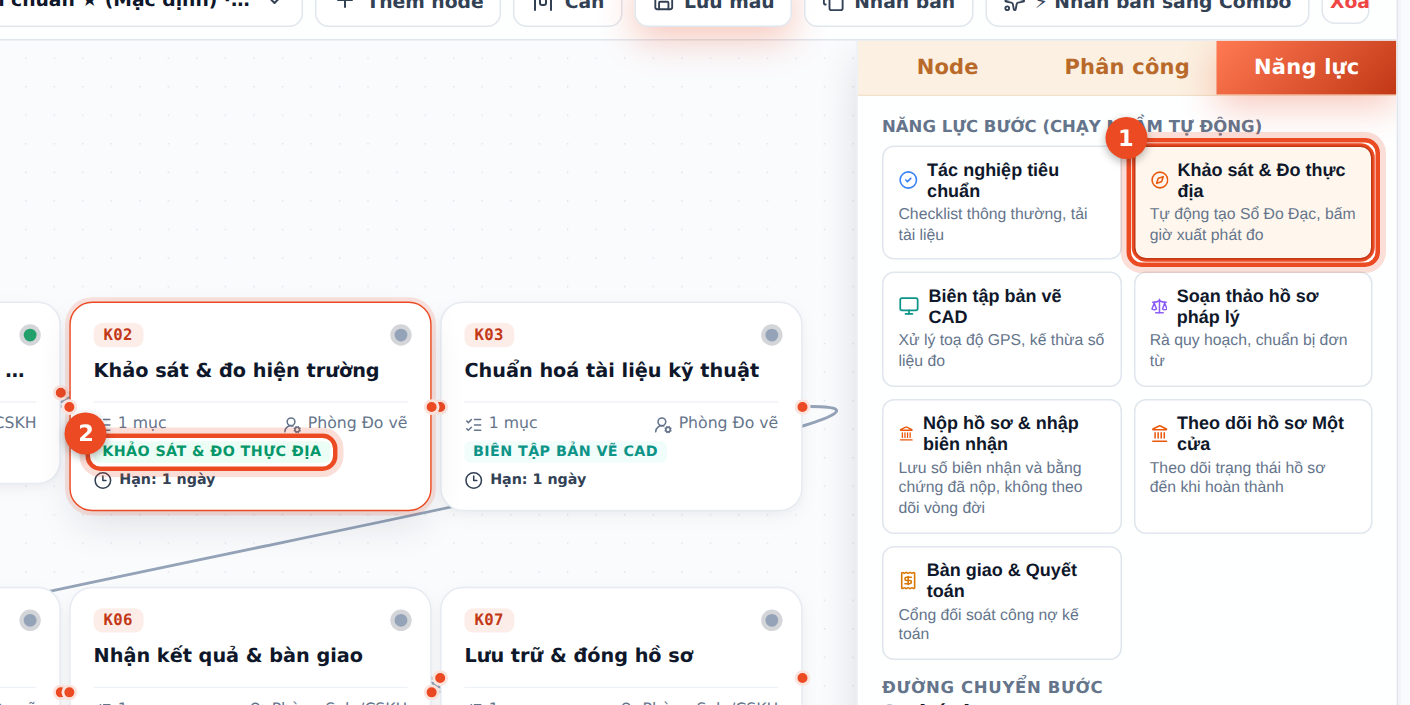
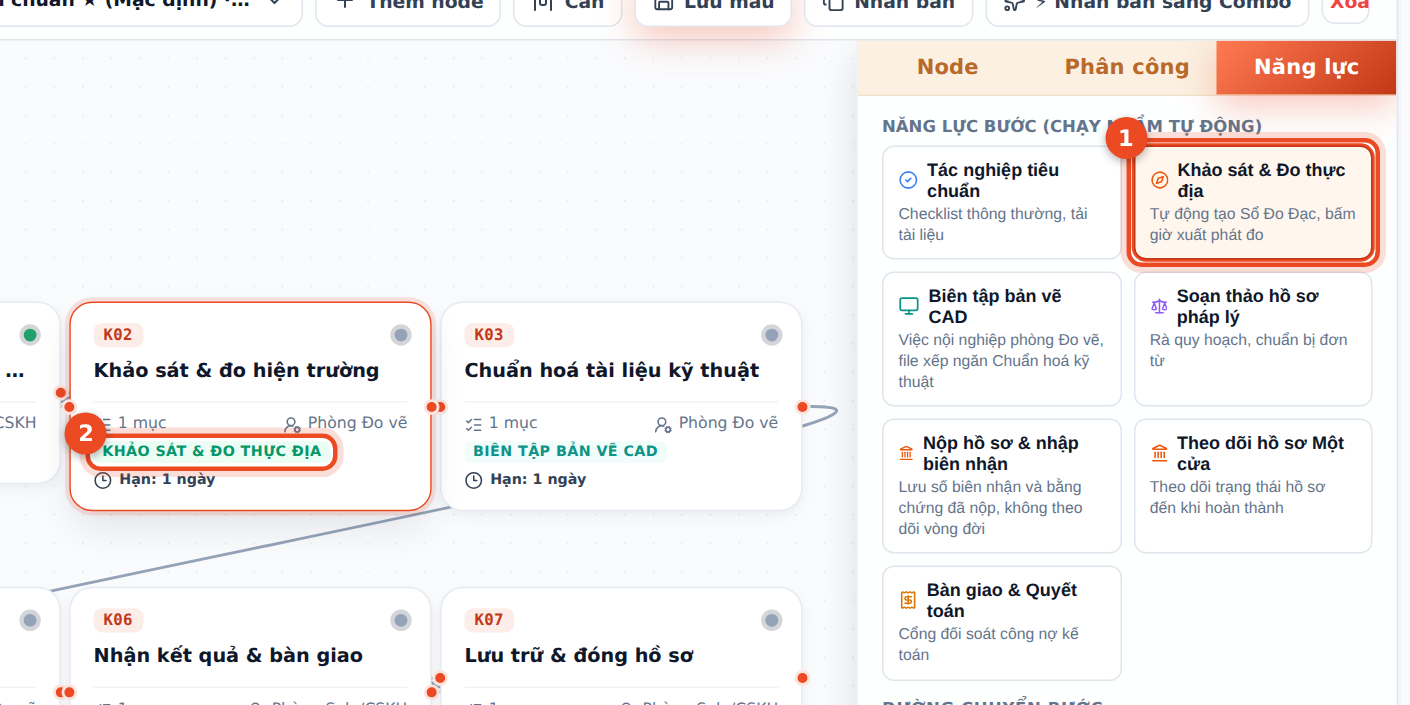
fix(workflow): CAD capability text matches what it does
The SURVEY_CAD card promised GPS processing and inherited survey data;
the capability actually only pins the task pool to Đo vẽ and files uploads
under Chuẩn hoá kỹ thuật. Reword the card in both workflow designers and
the employee banner (point to the dossier cabinet for earlier survey
files), and refresh the guide screenshot.

Claude-Session: https://claude.ai/code/session_013yvxA2GpJ7aYyLD5Pc6paG

Changed region(s): [[0.6241, 0.4681, 0.7801, 1.0], [0.8113, 0.5617, 0.9674, 0.7489]]

diff --git a/dev/frontend/src/features/employee-portal/NodeBusinessSlot.jsx b/dev/frontend/src/features/employee-portal/NodeBusinessSlot.jsx
@@ -158,7 +158,7 @@ export default function NodeBusinessSlot({
           <Monitor size={16} />
           <div className="eiw-band__content">
             <strong>Nội nghiệp biên tập bản vẽ CAD & GIS</strong>
-            <span>Kế thừa toạ độ GPS máy đo và hoàn thiện hồ sơ kỹ thuật thửa đất</span>
+            <span>Hoàn thiện bản vẽ và hồ sơ kỹ thuật thửa đất — số liệu đo của bước trước xem trong tủ hồ sơ</span>
           </div>
         </div>
       )}

diff --git a/dev/frontend/src/components/contracts/ContractWorkflowDesigner.jsx b/dev/frontend/src/components/contracts/ContractWorkflowDesigner.jsx
@@ -136,7 +136,7 @@ export const CAPABILITIES = [
   {
     code: 'SURVEY_CAD',
     label: 'Biên tập bản vẽ CAD',
-    desc: 'Xử lý toạ độ GPS, kế thừa số liệu đo',
+    desc: 'Việc nội nghiệp phòng Đo vẽ, file xếp ngăn Chuẩn hoá kỹ thuật',
     icon: Monitor,
     color: '#0d9488',
     suggestDept: 'SURVEY',

diff --git a/dev/frontend/src/features/workflow-templates/MasterWorkflowStudio.jsx b/dev/frontend/src/features/workflow-templates/MasterWorkflowStudio.jsx
@@ -208,7 +208,7 @@ export const CAPABILITIES = [
   {
     code: 'SURVEY_CAD',
     label: 'Biên tập bản vẽ CAD',
-    desc: 'Xử lý toạ độ GPS, kế thừa số liệu đo',
+    desc: 'Việc nội nghiệp phòng Đo vẽ, file xếp ngăn Chuẩn hoá kỹ thuật',
     icon: Monitor,
     color: '#0d9488',
     suggestDept: 'SURVEY',
